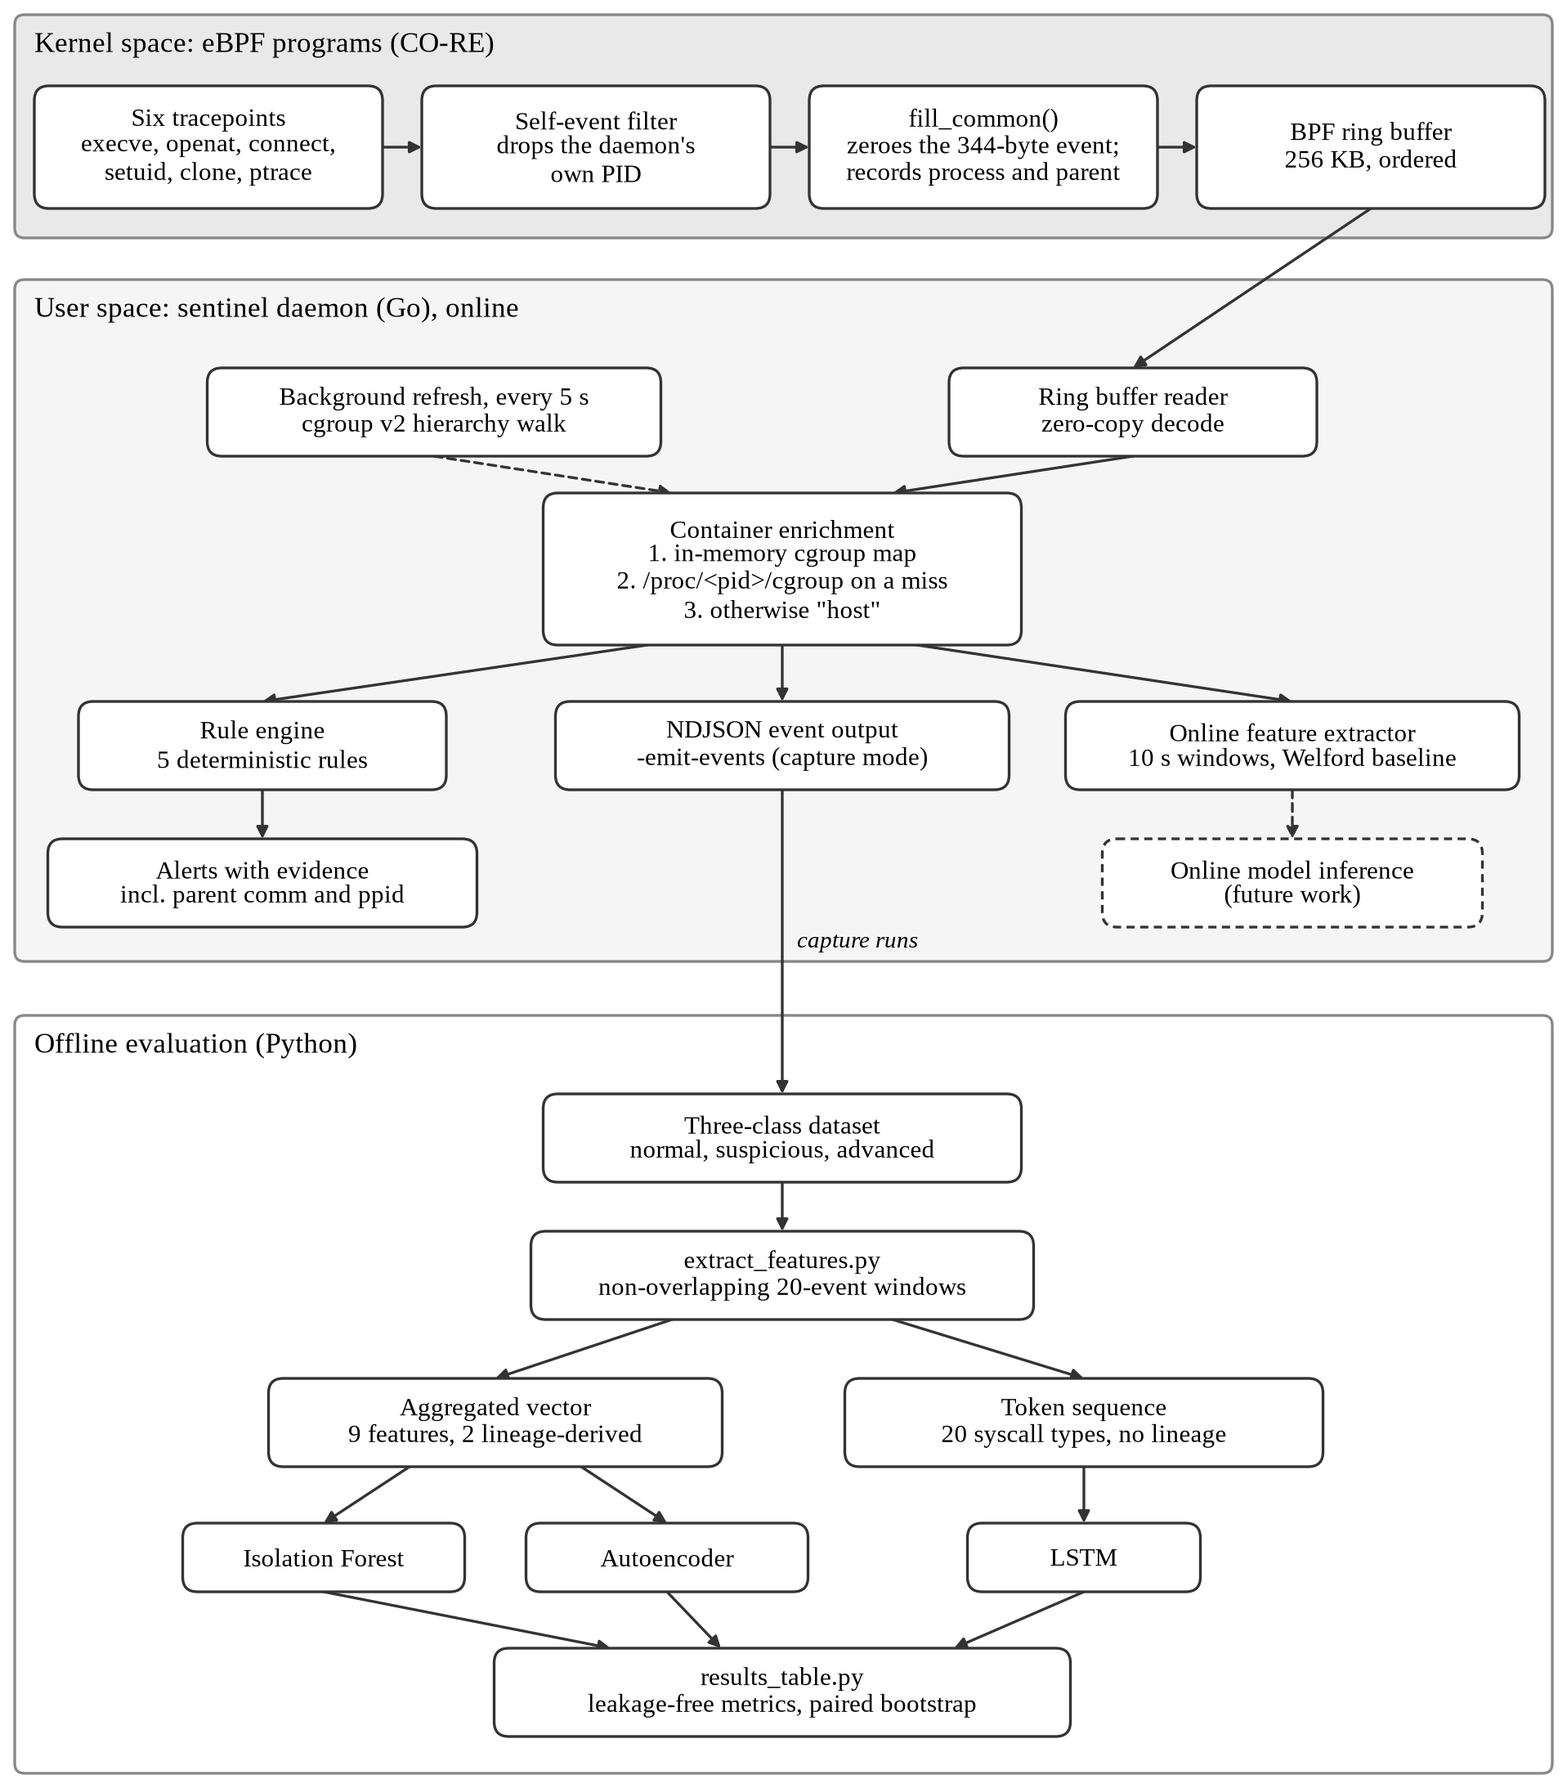
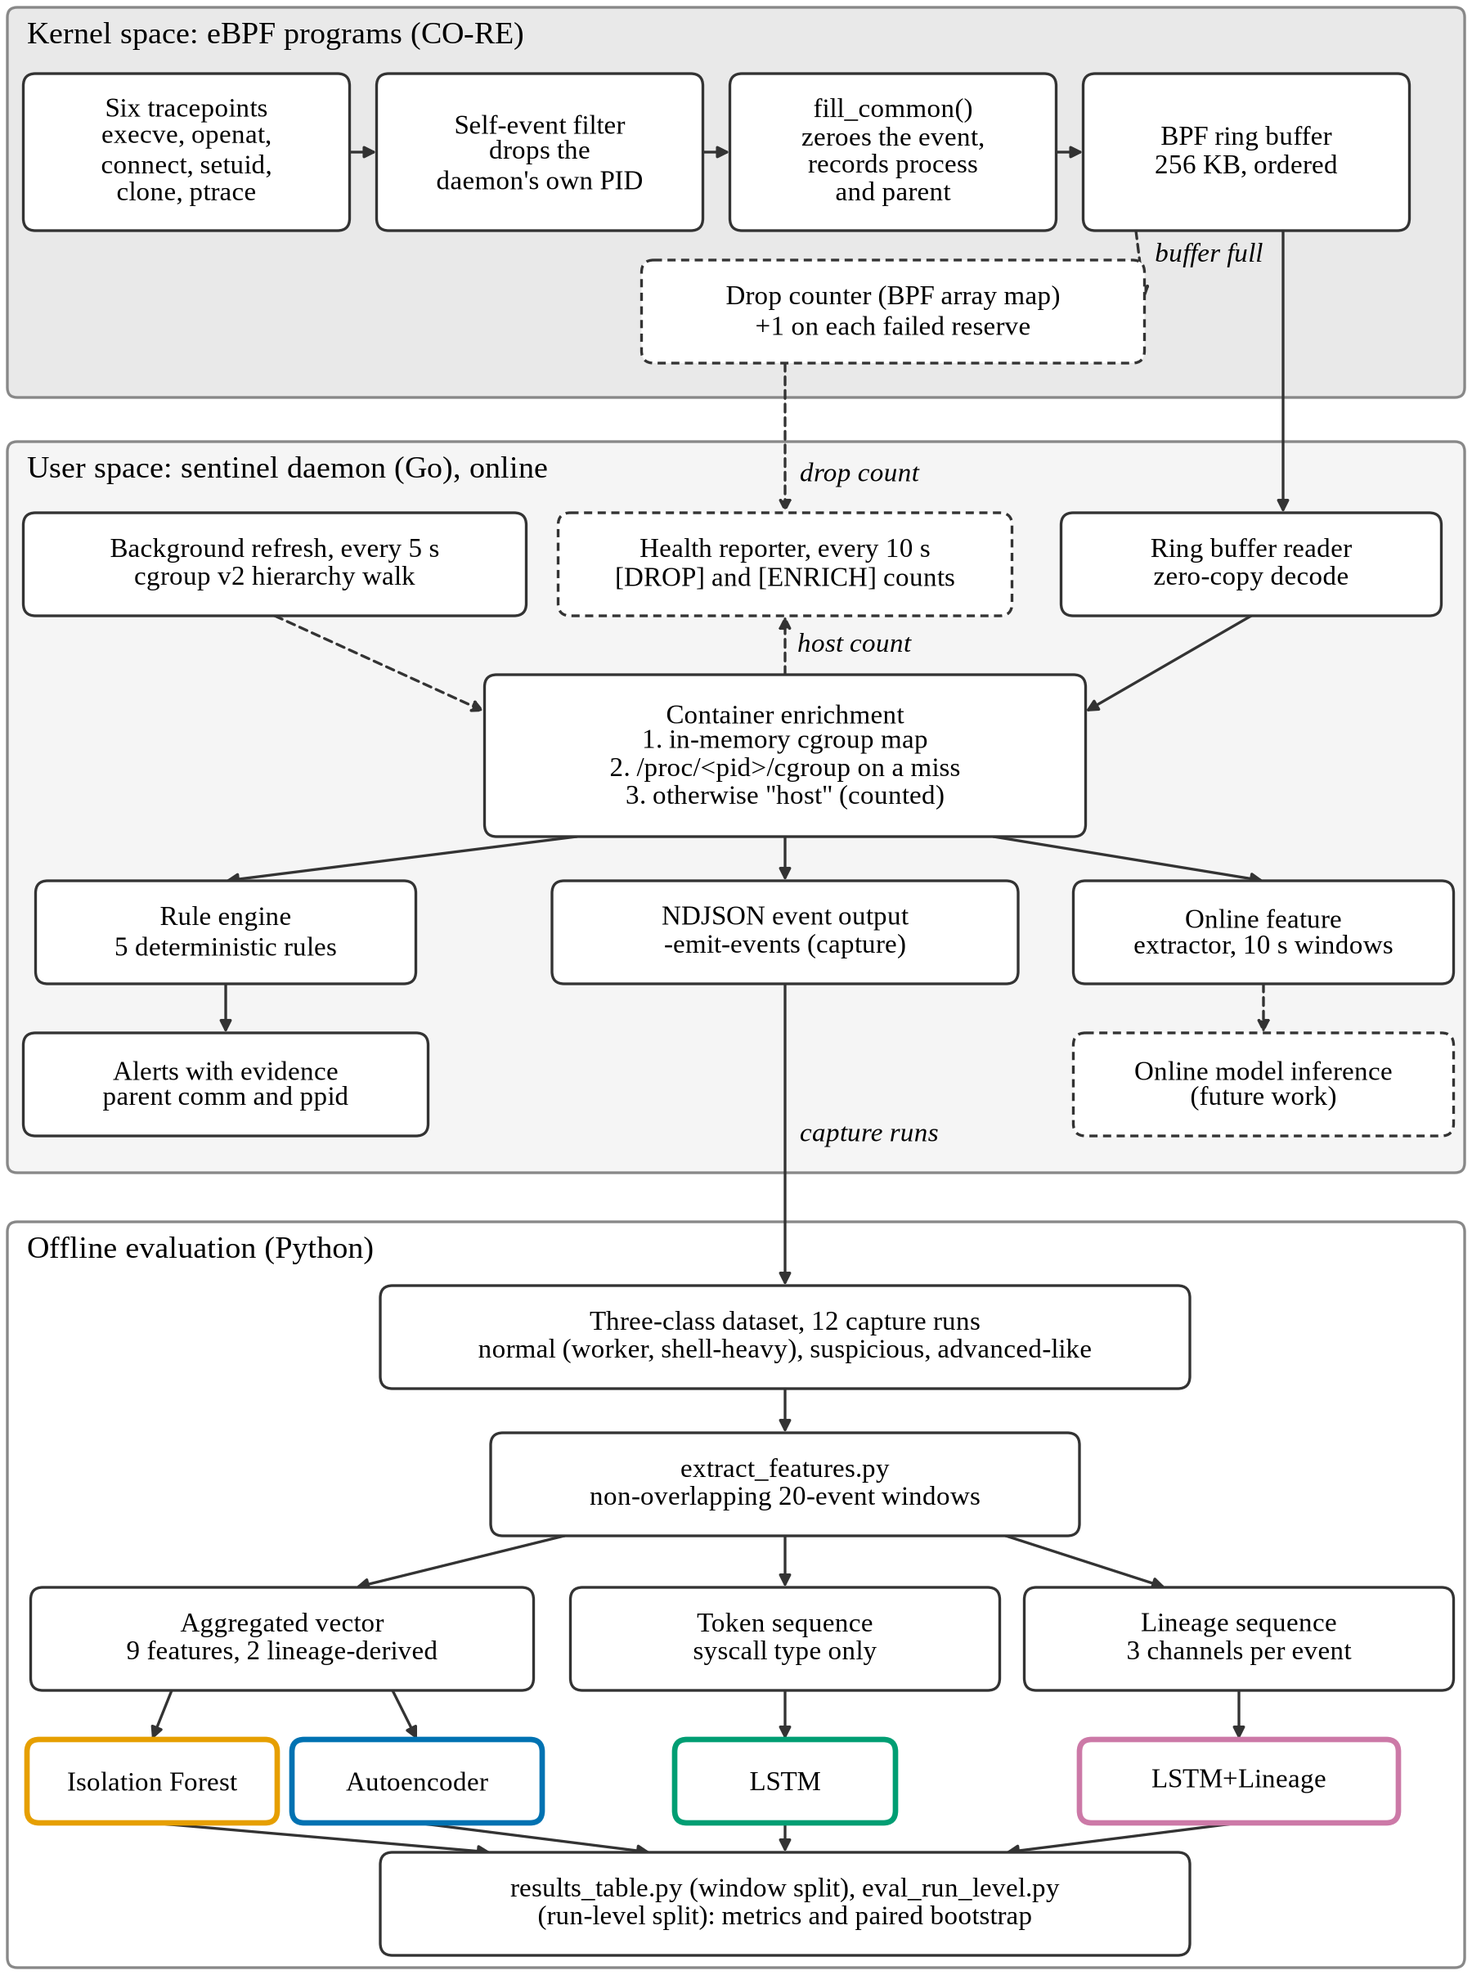
docs: phone-first README for Poster Day, with revised results and live demo GIF

Changed region(s): [[0.0, 0.0, 1.0, 1.0]]

diff --git a/README.md b/README.md
@@ -1,221 +1,100 @@
 # sentinel-eBPF
 
-Kernel-level syscall telemetry and unsupervised anomaly detection for Linux containers.
+**On container system-call telemetry captured with eBPF, a model that reads the *order* of system calls detected advanced attack behaviour far better than models that summarise them. Adding process lineage on top made almost no difference.**
 
-eBPF tracepoints >> Go concurrent pipeline >> offline three-model comparison >> explainable rule-based alerts.
+![Live demo: the daemon flags a container-escape pattern and a port scan](docs/demo.gif)
 
-CI: passing · License: Apache 2.0 · Kernel >= 5.8 · Go 1.22
+*60-second live run. The daemon attaches six eBPF tracepoints, then flags a container-escape pattern and a port scan. Every alert names the parent process that caused it.*
 
---- >< ---
+---
 
-## What this is
+## The result
 
-sentinel-eBPF is the artefact of an honours research project. It asks a single question: when container syscall telemetry is collected with eBPF, which behavioural representation detects attacks better, an aggregated feature vector or an ordered syscall sequence?
+Four unsupervised models were trained on normal behaviour only. They were tested on capture runs they never saw: no test window shares a run with any training window.
 
-To answer it, the system captures syscall telemetry through six eBPF tracepoints, including parent-child process lineage, processes events concurrently in a Go daemon, raises rule-based alerts online, and writes events to disk for an offline comparison of three unsupervised models.
+| Model | Input | AUC, normal vs advanced-like | Advanced-like windows caught at about 5% false alarms |
+|---|---|---|---|
+| LSTM + lineage | ordered sequence + parent info | 0.726 | 51.8% |
+| LSTM | ordered sequence | 0.715 | 49.1% |
+| Autoencoder | 9 summary features | 0.640 | 6.4% |
+| Isolation Forest | 9 summary features | 0.621 | 3.1% |
 
-The honest headline of the result is not a model leaderboard. It is this: detection rested almost entirely on process lineage features, not on syscall ordering. Removing the two lineage-derived features dropped detection to below chance. The full result, including what this means and what it does not, is in the research summary below.
+Both LSTMs beat both summary models (paired bootstrap, B = 2000, every 95% interval excludes zero). Lineage adds about 0.01 AUC to the LSTM: real, but too small to matter.
 
-Status: complete. All builds finished. Results locked and reproducible from the scripts in `ml/`.
+![ROC curves on held-out capture runs](docs/figures/fig5_2_roc.png)
 
---- >< ---
+### Why the answer changed
 
-## Research summary
+An earlier evaluation on a narrower dataset showed the opposite: the summary models led. A lineage ablation traced that lead to a shortcut. The normal workload was one long-lived process, so parent-process features separated it from attacks trivially. Three fixes reversed the ranking: a benign shell-heavy normal workload, a corrected serialisation bug, and a split that holds out whole capture runs.
 
-Title: Evaluation of Unsupervised Anomaly Detection on eBPF-Based Container Syscall Telemetry
-Supervisor: Mr. S. M. Makura, University of Pretoria
-Module: COS700 Honours Research Project, 2026
+### Limits
 
-### The comparison
+- Constructed workloads on one laptop, 12 capture runs. Not real attacks, not production traffic.
+- AUCs are moderate (0.62 to 0.73). At one attack window per hundred, about nine in ten LSTM alarms would be false. These models fit as a scoring layer next to rules, not as a standalone detector.
+- The models run offline on captured events. The live daemon raises rule-based alerts only.
+- Daemon overhead was 3.4% of system CPU on development hardware. The 2% target was not met.
 
-Three unsupervised models were trained on normal behaviour only and evaluated on unseen suspicious and advanced behaviour, under a leakage-free protocol. The normal class was split into training, threshold calibration, and false-positive test sets. All metrics are computed on 1884 unseen windows. Inference uses a paired, class-stratified bootstrap (B = 2000).
-
-| Model | Representation | AUC [95% CI] | FPR | F1 (1:1) |
-|-------|----------------|--------------|-----|----------|
-| Isolation Forest | aggregated | 0.767 [0.731, 0.804] | 0.040 | 0.195 |
-| Autoencoder | aggregated | 0.782 [0.758, 0.805] | 0.025 | 0.572 |
-| LSTM | sequence | 0.731 [0.698, 0.763] | 0.094 | 0.440 |
-
-Both aggregated models outperformed the sequence model overall. The neural and non-neural aggregated models were statistically indistinguishable. On the advanced class specifically, all three models were statistically indistinguishable, so the pre-registered hypothesis that ordering improves advanced-attack detection was not supported.
-
-### What actually drove detection
-
-A lineage ablation retrained the two aggregated models without their two lineage-derived features (shell-parent spawns and distinct-parent count). Overall AUC fell from 0.782 to 0.298 for the Autoencoder and from 0.767 to 0.454 for the Isolation Forest. Both fell below chance. Every bootstrap interval excluded zero.
-
-The comparison therefore did not isolate ordering. It compared a representation carrying process lineage against one that did not. The supported claim is narrow and honest: the representation carrying lineage detected better than the representation without it. Whether ordering helps once both representations carry the same information is open, and is the first item of future work.
-
-### Honest caveats
-
-- The per-second rate features encoded the tempo of the capture scripts rather than behaviour. A 20-event window spanned a median of 16 ms for normal workloads and about 750 ms for the attack workloads.
-- Two of the nine features were inert. `privileged_syscall_count` was always zero because the event serialisation dropped the new-UID field when it was zero. `ptrace_count` was always zero because no ptrace occurred in the captures.
-- Evaluation used a self-generated dataset on a single node. Sub-2 percent overhead was not confirmed on dedicated hardware.
-- Lineage features may partly reflect workload structure, since the normal workload was dominated by one long-lived process. This is untested on benign workloads that spawn many short-lived processes.
-
---- >< ---
-
-## System architecture
-
-![System architecture](docs/uml/system_architecture_overview.png)
-
-The online daemon captures, enriches, computes feature vectors, and raises rule-based alerts. The three models run offline on captured events. Lineage reaches the aggregated feature vector and the alert evidence, but never the token sequence.
-
---- >< ---
+---
 
 ## How it works
 
-### Layer 1 >> Linux kernel (C, libbpf, CO-RE)
+![Architecture](docs/uml/system_architecture_overview.png)
 
-Six eBPF tracepoints capture syscall activity across container namespace boundaries. CO-RE means one compiled object loads across kernel versions without recompilation.
+**Kernel (C, libbpf, CO-RE).** Six tracepoints (execve, openat, connect, setuid, clone, ptrace) record each call with its process, parent PID and parent command. The daemon's own events are dropped in-kernel. A counter records events lost when the 256 KB ring buffer is full: zero in four verification runs of the dataset workloads.
 
-| Tracepoint | Fields captured | Relevance |
-|------------|-----------------|-----------|
-| sys_enter_execve | pid, ppid, comm, parent_comm, filename, cgroup_id | Shell spawns, recon tools, process chains |
-| sys_enter_openat | pid, filename, cgroup_id | Host-namespace access, credential paths |
-| sys_enter_connect | pid, dest_ip, dest_port, cgroup_id | Outbound connections, port scans |
-| sys_enter_setuid | pid, uid, new_uid, cgroup_id | Privilege escalation to UID 0 |
-| sys_enter_clone | pid, clone_flags, cgroup_id | Namespace creation |
-| sys_enter_ptrace | pid, ptrace_request, cgroup_id | Process inspection |
+**Daemon (Go, cilium/ebpf).** Attributes each event to its container, map-first, then runs five deterministic rules. Each alert carries the process lineage as evidence.
 
-The event struct is zeroed per event (a ring-buffer slot is not cleared on reserve), and the daemon's own events are dropped in-kernel by PID filter so the tool does not observe itself. Parent fields come from the kernel task_struct via BPF_CORE_READ.
+**Offline evaluation (Python).** Captured events are cut into 20-event windows. Each window becomes a 9-feature summary vector, a syscall-type sequence, and a sequence with two lineage channels. Four models score them: Isolation Forest, Autoencoder, LSTM, and LSTM + lineage.
 
-Note from the evaluation: in the captured data, execve, openat, connect and setuid appeared in all classes; clone appeared only in normal behaviour; ptrace never fired.
+---
 
-### Layer 2 >> Go daemon (cilium/ebpf)
+## Run it
 
-Goroutines connected by typed channels read the ring buffer, enrich events with container identity, compute feature vectors, and run the rule engine. Container identity is resolved map-first: an in-memory cgroup map refreshed every five seconds, with a per-process `/proc/<pid>/cgroup` read only on a miss.
+Requires Linux kernel 5.8 or later with BTF, Go 1.22, clang, Docker, and Python with numpy, scikit-learn, scipy, torch and matplotlib.
 
-The daemon raises alerts from five deterministic rules. It does not run the ML models. Online model inference is future work.
-
-### Layer 3 >> Offline evaluation (Python)
-
-Events written in capture mode feed `ml/extract_features.py`, which emits both representations from the identical event stream over non-overlapping 20-event windows: a nine-feature aggregated vector and a 20-token syscall sequence. The three models and the full evaluation are driven by the scripts in `ml/`.
-
-The nine aggregated features: execve rate, connect rate, file-open rate, process-spawn rate, privileged-syscall count, ptrace count, shell-parent spawn count, shell-after-connect count, and distinct-parent count. The last three encode security context; the two inert features noted above are among the nine.
-
-### Explainable alerts
-
-A rule-based alert reports the rule, severity, container, a description, and an evidence set that includes the offending process, its parent command, and its parent PID. Verified on a live container-escape trigger:
-
-```
-[ALERT] CRITICAL | CONTAINER_ESCAPE | <container> | opened /proc/1/ns/pid |
-  evidence={"filename":"/proc/1/ns/pid","parent_comm":"sh","pid":7368,"ppid":7362}
-```
-
-The alert gives a responder the process lineage of an event rather than a bare identifier. Integrating the per-container baseline deviation directly into the alert is future work.
-
---- >< ---
-
-## Runtime performance
-
-Overhead was profiled on the development machine and reduced from 8.4 percent to 3.4 percent of system CPU through four fixes, each found with a named tool and measured before and after.
-
-| Fix | Found with | Effect |
-|-----|-----------|--------|
-| Kernel self-event filter | pidstat | idle CPU 67.6% to 1.3% |
-| Cache-miss walk removal | strace | removed tens of thousands of directory reads per second |
-| Map-first enrichment | perf | removed a per-event /proc read |
-| Zero-copy event decode | perf | removed reflection-based deserialisation, the top user-space cost |
-
-The residual 3.4 percent is dominated by Go runtime garbage collection and scheduler contention on shared hardware, not by the instrumentation. Sub-2 percent is assessed as achievable but was not confirmed; dedicated-hardware benchmarking is future work.
-
---- >< ---
-
-## Evaluation design
-
-Models train on normal behaviour only. Suspicious and advanced windows are evaluation-only.
-
-| Class | Description | Examples |
-|-------|-------------|----------|
-| Normal | Legitimate multi-process workload | subprocess spawns, file reads and writes, outbound calls to an internal service |
-| Suspicious | Legitimate tools on illegitimate targets | reading /etc/shadow and /root/.ssh, enumerating setuid binaries, privilege recon |
-| Advanced | Attack patterns, no live exploits | nested shell chains, reverse-shell connect-then-spawn, setuid escalation, setuid-binary planting |
-
-Dataset: 3027 windows total, 1345 normal, 699 suspicious, 983 advanced. Metrics: AUC, per-class AUC, precision, recall, F1 at 1:1 prevalence, and false-positive rate, per model. Datasets are regenerated by the capture scripts in `scripts/`, not stored in the repository.
-
---- >< ---
-
-## Reproducing the results
-
-Prerequisites: Linux kernel >= 5.8, Go 1.22+, clang/LLVM, Docker, Python with numpy, pandas, scikit-learn, scipy, torch.
+**Live demo** (the container is deliberately privileged to simulate escape conditions):
 
 ```bash
-git clone https://github.com/Murashidzi/sentinel-ebpf.git
-cd sentinel-ebpf
-
-# build the eBPF object and the daemon
+git clone https://github.com/Murashidzi/sentinel-ebpf.git && cd sentinel-ebpf
 cd daemon && go generate ./... && go build -o sentinel . && cd ..
-
-# capture the three behavioural classes (writes to evaluation/datasets/)
-sudo scripts/capture_normal.sh 360
-sudo scripts/capture_suspicious.sh 360
-sudo scripts/capture_advanced.sh 360
-
-# extract both representations, train and score the models, then the results
-python3 ml/extract_features.py
-python3 ml/train_isolation_forest.py
-python3 ml/train_autoencoder.py
-python3 ml/train_lstm.py
-python3 ml/results_table.py        # the single source of truth for every reported number
-python3 ml/ablation_lineage.py     # the RQ3 lineage ablation
-python3 ml/make_figures.py         # Chapter 5 figures
+sudo -v && bash scripts/demo.sh
 ```
 
-To run the live daemon and see rule-based alerts:
+**Reproduce the evaluation:**
 
 ```bash
-sudo daemon/sentinel            # alerts to stderr
-sudo daemon/sentinel -emit-events   # also writes per-event JSON for capture
+sudo -v && bash scripts/capture_all.sh 180    # 12 capture runs, about 40 minutes
+python3 ml/extract_features.py
+python3 ml/train_isolation_forest.py && python3 ml/train_autoencoder.py
+python3 ml/train_lstm.py && python3 ml/train_lstm_lineage.py
+python3 ml/results_table.py       # window-level split
+python3 ml/eval_run_level.py      # run-level split (primary)
+python3 ml/ablation_lineage.py    # lineage ablation
+python3 ml/make_figures.py && python3 ml/make_diagrams.py
 ```
 
---- >< ---
+Capture timing varies between runs, so a fresh capture gives close but not identical numbers. Exact numbers reproduce only from the same capture files.
+
+---
 
 ## Repository layout
 
 ```
-sentinel-ebpf/
-├── kernel/
-│   ├── tracer.bpf.c              eBPF programs (C, libbpf, CO-RE)
-│   └── headers.h                 shared event struct
-├── daemon/
-│   ├── main.go                   pipeline orchestration
-│   ├── enricher.go               cgroup map-first container enrichment
-│   ├── feature_extractor.go      online feature vectors (printed)
-│   ├── rule_engine.go            five deterministic rules, alert evidence
-│   └── tracer_bpf*.go            bpf2go bindings
-├── ml/
-│   ├── extract_features.py       both representations from one event stream
-│   ├── train_isolation_forest.py
-│   ├── train_autoencoder.py
-│   ├── train_lstm.py
-│   ├── results_table.py          leakage-free metrics and paired bootstrap
-│   ├── ablation_lineage.py       RQ3 lineage ablation
-│   ├── make_figures.py           result figures
-│   └── make_diagrams.py          architecture and design figures
-├── evaluation/datasets/          gitignored; regenerated by scripts
-├── scripts/
-│   ├── capture_normal.sh
-│   ├── capture_suspicious.sh
-│   ├── capture_advanced.sh
-│   └── measure_overhead.sh
-├── docs/uml/                     diagrams
-└── LICENSE                       Apache 2.0
+kernel/    tracer.bpf.c, headers.h          eBPF programs
+daemon/    main.go, enricher.go,            pipeline, container attribution,
+           rule_engine.go,                  rules, online features
+           feature_extractor.go
+ml/        extract_features.py              windows and three representations
+           train_*.py                       four models
+           results_table.py                 window-level metrics, bootstrap
+           eval_run_level.py                run-level split (primary)
+           ablation_lineage.py              lineage ablation
+           make_figures.py, make_diagrams.py
+scripts/   capture_*.sh, capture_all.sh     dataset capture
+           demo.sh                          the recorded demo
+docs/      demo.gif, figures, diagrams
 ```
 
---- >< ---
+---
 
-## Technology stack
-
-| Layer | Technology |
-|-------|-----------|
-| Kernel instrumentation | C, libbpf, CO-RE, clang/LLVM |
-| User-space daemon | Go 1.22, cilium/ebpf |
-| Offline models | Python, PyTorch (Autoencoder, LSTM), scikit-learn (Isolation Forest) |
-| Evaluation | numpy, pandas, scipy, matplotlib |
-| Profiling | pidstat, strace, perf |
-| CI | GitHub Actions |
-
---- >< ---
-
-## License
-
-Apache 2.0. See LICENSE.
+COS700 Honours research, University of Pretoria, 2026. Supervisor: Mr S. M. Makura. Apache 2.0.
